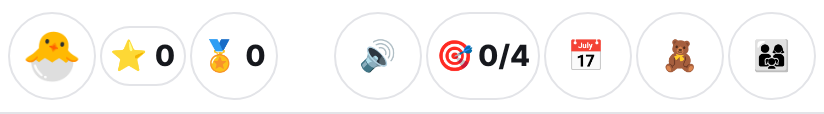
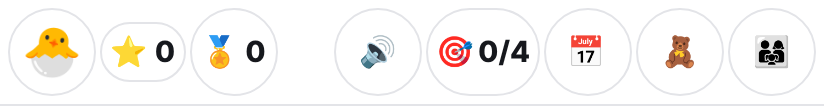
웹(주소창 보이는 크롬)에서 아래 작업줄이 안 보이던 진짜 원인 수정
app.css 의 body { min-height: 100vh } 가 바탕화면에도 걸려 있었다. 안드로이드 크롬의 100vh 는 주소창이 숨었을 때의
큰 높이라, 주소창이 보이면 몸통이 길어져 작업줄이 화면 밖으로 밀렸다(설치 앱은 주소창이 없어 멀쩡). v30 의 높이 맞춤이
이 최소 높이에 막혀 듣지 않았다.
- 바탕화면 body min-height: 0
- 높이는 innerHeight 와 보이는 영역(visualViewport) 중 작은 쪽, 앱 창은 위 막대·작업줄의 실제 자리를 재서 맞춤
- viewport-fit=cover + 안전 영역 여백(아래 시스템 단추·노치 뒤로 그리는 기기 대비)
- 보호자 설정에 '화면 정보'(창·보이는 높이·dvh/svh/lvh·안전 영역·작업줄 위치) — 기기별 문제 확인용
- 캐시 v33

Claude-Session: https://claude.ai/code/session_01FiWqr26jd92tA4vQktpHxz

diff --git a/index.html b/index.html
@@ -2,7 +2,7 @@
 <html lang="ko" data-db-app="kids-lab" data-db-theme="light">
 <head>
 <meta charset="utf-8">
-<meta name="viewport" content="width=device-width, initial-scale=1">
+<meta name="viewport" content="width=device-width, initial-scale=1, viewport-fit=cover">
 <title>키즈랩 — 우리 아이 학습 놀이터</title>
 <meta name="description" content="다섯 살부터 혼자 켜서 쓰는 한글·영어·수학·과학·생활 학습 놀이터">
 <link rel="canonical" href="https://dibrain.dev/kids-lab/">
@@ -29,7 +29,9 @@
   /* 높이는 100dvh가 아니라 실제 보이는 높이(innerHeight)로 맞춘다.
      일부 안드로이드 태블릿(아래 시스템 작업 표시줄)에서 100dvh가 보이는 높이보다 커서 작업줄이 화면 밖으로 밀리고,
      화면 기준으로 자리 잡는 앱 창과 어긋나 아래로 바탕화면이 비쳤다. */
-  body { height: 100%; height: var(--app-h, 100%); overflow: hidden; display: flex; flex-direction: column; background: var(--db-bg); color: var(--db-text); font-size: 20px; }
+  /* app.css 의 body { min-height: 100vh } 를 끈다. 안드로이드 크롬에서 100vh 는 주소창이 숨었을 때의 큰 높이라,
+     주소창이 보이는 웹에서는 몸통이 길어져 작업줄이 화면 밖으로 밀렸다(설치 앱은 주소창이 없어 멀쩡했다) */
+  body { min-height: 0; height: 100%; height: var(--app-h, 100%); overflow: hidden; display: flex; flex-direction: column; background: var(--db-bg); color: var(--db-text); font-size: 20px; }
   #topbar { flex: none; background: var(--db-card); border-bottom: 1px solid var(--db-line); display: flex; align-items: center; justify-content: space-between; gap: 8px; padding: 5px 14px; position: relative; z-index: 50; }
   #topbar .left, #topbar .right { display: flex; align-items: center; gap: 8px; min-width: 0; }
   #topbar .fit-hide { display: none !important; }
@@ -96,7 +98,7 @@
   @media (hover: hover) { .win .bar button.close:hover { background: #e03e44; } }
   .win iframe { flex: 1; border: none; width: 100%; background: var(--db-bg); }
   /* 손가락으로 쓰는 기기(iPad 등): 창은 늘 화면 가득, 끌기·크기 단추 없음, 닫기 단추는 크게 */
-  html.touch .win, html.touch .win.max { left: 0 !important; right: 0 !important; top: var(--topbar-h, 64px) !important; width: 100% !important; height: calc(100% - var(--topbar-h, 64px) - var(--taskbar-h, 70px)) !important; min-width: 0; min-height: 0; border-radius: 0; border-width: 0; }
+  html.touch .win, html.touch .win.max { left: 0 !important; right: 0 !important; top: var(--win-top, var(--topbar-h, 64px)) !important; width: 100% !important; height: var(--win-h, calc(100% - var(--topbar-h, 64px) - var(--taskbar-h, 70px))) !important; min-width: 0; min-height: 0; border-radius: 0; border-width: 0; }
   html.touch .win .bar { cursor: default; }
   html.touch .win .bar .maxbtn { display: none; }
   html.touch .win .bar button { height: 40px; }
@@ -173,7 +175,7 @@
     #taskbar { min-height: 48px; padding-top: 3px; padding-bottom: calc(3px + env(safe-area-inset-bottom, 0px)); }
     #homeBtn { width: 44px; height: 40px; font-size: 22px; border-radius: 12px; box-shadow: 0 3px 0 rgba(0,0,0,.12); }
     .task { padding: 6px 10px; font-size: 15px; border-radius: 12px; }
-    .win, .win.max { left: 0 !important; right: 0 !important; top: var(--topbar-h, 56px) !important; width: 100% !important; height: calc(100% - var(--topbar-h, 56px) - var(--taskbar-h, 58px)) !important; min-width: 0; min-height: 0; border-radius: 0; border-width: 0; }
+    .win, .win.max { left: 0 !important; right: 0 !important; top: var(--win-top, var(--topbar-h, 56px)) !important; width: 100% !important; height: var(--win-h, calc(100% - var(--topbar-h, 56px) - var(--taskbar-h, 58px))) !important; min-width: 0; min-height: 0; border-radius: 0; border-width: 0; }
     .win .bar { height: 42px; font-size: 17px; padding: 0 6px 0 12px; cursor: default; }
     .win .bar button { width: 40px; height: 36px; font-size: 18px; }
     .win .bar button.close { width: 52px; font-size: 22px; }
@@ -235,6 +237,10 @@
   @media (min-width: 761px) and (max-width: 900px) { .pill { padding-left: 9px; padding-right: 9px; } }
   /* 아주 좁은 폰(340px 이하)은 단추 폭을 조금 줄여야 한 줄에 들어간다. 높이 44px은 그대로 */
   @media (max-width: 340px) { .pill.btn, #profileBtn { min-width: 38px; } #topbar .left, #topbar .right { gap: 1px; } }
+  /* viewport-fit=cover: 노치·시스템 단추 자리를 피한다 (없는 기기에서는 원래 여백 그대로).
+     맨 끝에 두어 폭별 규칙의 padding 에 덮이지 않게 한다 */
+  #topbar { padding-top: max(4px, env(safe-area-inset-top, 0px)); padding-left: max(4px, env(safe-area-inset-left, 0px)); padding-right: max(4px, env(safe-area-inset-right, 0px)); }
+  #taskbar { padding-left: max(10px, env(safe-area-inset-left, 0px)); padding-right: max(10px, env(safe-area-inset-right, 0px)); padding-bottom: calc(3px + env(safe-area-inset-bottom, 0px)); }
 </style>
 </head>
 <body>
@@ -299,9 +305,16 @@
   function syncBars() {
     fitTopbar();
     var tb = document.getElementById('topbar'), bb = document.getElementById('taskbar');
-    document.documentElement.style.setProperty('--app-h', window.innerHeight + 'px');
+    /* 실제로 보이는 높이: innerHeight와 보이는 영역(visualViewport) 중 작은 쪽.
+       어떤 안드로이드 크롬은 주소창·아래 시스템 단추 뒤까지 높이에 넣어 작업줄이 가려졌다 */
+    var vh = window.innerHeight;
+    if (window.visualViewport && window.visualViewport.scale <= 1.01) vh = Math.min(vh, Math.round(window.visualViewport.height + window.visualViewport.offsetTop));
+    document.documentElement.style.setProperty('--app-h', vh + 'px');
     document.documentElement.style.setProperty('--topbar-h', tb.offsetHeight + 'px');
     document.documentElement.style.setProperty('--taskbar-h', bb.offsetHeight + 'px');
+    /* 앱 창은 위 막대 아래부터 작업줄 위까지, 실제 자리를 재서 맞춘다 */
+    var top = tb.getBoundingClientRect().bottom, bot = bb.getBoundingClientRect().top;
+    if (bot > top) { document.documentElement.style.setProperty('--win-top', Math.round(top) + 'px'); document.documentElement.style.setProperty('--win-h', Math.round(bot - top) + 'px'); }
   }
   syncBars();
   window.addEventListener('resize', syncBars);
@@ -870,6 +883,16 @@
     panel.appendChild(el('div', { class: 'toggle' }, [el('span', { text: '🗑 기록 전체 삭제 (모든 친구)' }), el('button', { text: '모두 지우기', style: 'background:#ff595e;color:#fff', onclick: function () { if (!confirm('키즈랩에 저장된 모든 친구의 기록과 설정을 지웁니다. 되돌릴 수 없어요. 계속할까요?')) return; try { var ks = []; for (var i = 0; i < localStorage.length; i++) { var k = localStorage.key(i); if (k && k.indexOf('kidlab.') === 0) ks.push(k); } ks.forEach(function (k) { localStorage.removeItem(k); }); } catch (e) {} location.reload(); } })]));
     panel.appendChild(el('p', { style: 'color:#5e5e5e;font-size:16px;margin-top:16px', html: '💡 모든 기록은 이 컴퓨터의 브라우저(localStorage)에만 저장돼요. 서버로 보내지 않아요.<br>키보드: <b>Esc</b> = 앱 닫기, 미로/코딩은 <b>방향키</b> 사용 가능.' }));
     /* 운영자 사이트 첫 화면 링크는 보호자만 보는 이 화면에만 둔다 (첫 화면에는 광고·어른용 도구가 있다) */
+    /* 화면 정보: 기기마다 다른 화면 높이 문제를 원격으로 확인하려고 둔다 */
+    (function () {
+      var probe = function (u) { var d = document.createElement('div'); d.style.cssText = 'position:fixed;top:0;left:-9px;width:1px;height:' + u; document.body.appendChild(d); var h = Math.round(d.getBoundingClientRect().height); d.remove(); return h; };
+      var sa = document.createElement('div'); sa.style.cssText = 'position:fixed;left:-9px;top:0;padding-bottom:env(safe-area-inset-bottom,0px);padding-top:env(safe-area-inset-top,0px)'; document.body.appendChild(sa); var cs = getComputedStyle(sa); var safe = parseInt(cs.paddingTop) + '/' + parseInt(cs.paddingBottom); sa.remove();
+      var vv = window.visualViewport, tbr = document.getElementById('taskbar').getBoundingClientRect();
+      var info = '창 ' + innerWidth + '×' + innerHeight + ' · 보이는 ' + (vv ? Math.round(vv.width) + '×' + Math.round(vv.height) + '+' + Math.round(vv.offsetTop) : '-') +
+        ' · dvh ' + probe('100dvh') + ' svh ' + probe('100svh') + ' lvh ' + probe('100lvh') + ' · 화면 ' + screen.width + '×' + screen.height + ' ×' + (window.devicePixelRatio || 1) +
+        ' · 안전영역 ' + safe + ' · 작업줄 ' + Math.round(tbr.top) + '~' + Math.round(tbr.bottom) + ' · ' + (matchMedia('(display-mode: standalone)').matches ? '설치 앱' : '브라우저') + ' · ' + (navigator.userAgent.match(/(Chrome|Version|Firefox|SamsungBrowser)\/[\d.]+/) || [''])[0];
+      panel.appendChild(el('details', { style: 'margin-top:10px;font-size:14px;color:var(--db-sub)' }, [el('summary', { text: '📐 화면 정보 (문제 알릴 때 캡처해 주세요)' }), el('div', { text: info, style: 'padding:8px 4px;word-break:break-all' })]));
+    })();
     panel.appendChild(el('p', { style: 'font-size:16px;margin:8px 0 0;color:var(--db-sub)', html: '<a href="https://dibrain.dev/" rel="noopener" style="display:inline-block;padding:10px 0;font-weight:800;color:var(--db-text)">DigitalBrain 첫 화면</a> · 키즈랩 밖으로 나가요' }));
     wrap.appendChild(panel); document.getElementById('panels').appendChild(wrap);
   }

diff --git a/shared/kid.js b/shared/kid.js
@@ -315,15 +315,15 @@
     if (window.top !== window) return;                       /* 앱 창(iframe)은 바깥 화면을 따른다 */
     var mv = document.querySelector('meta[name="viewport"]'); if (!mv) return;
     var sc = TOUCH_DEV ? uiScale() : 1, c;
-    if (sc === 1) c = 'width=device-width, initial-scale=1, minimum-scale=1, maximum-scale=1, user-scalable=no';
+    if (sc === 1) c = 'width=device-width, initial-scale=1, minimum-scale=1, maximum-scale=1, user-scalable=no, viewport-fit=cover';
     else {
       var land = window.matchMedia && matchMedia('(orientation: landscape)').matches;
       var dev = land ? Math.max(screen.width, screen.height) : Math.min(screen.width, screen.height);
       /* 앱들은 폭 320까지 맞춰 두었다. 작은 폰에서 크게 하면 그보다 좁아지지 않게 배율을 줄인다 */
       if (sc > 1 && dev / sc < 320) sc = Math.max(1, dev / 320);
       sc = Math.round(sc * 1000) / 1000;
-      c = sc === 1 ? 'width=device-width, initial-scale=1, minimum-scale=1, maximum-scale=1, user-scalable=no'
-        : 'width=' + Math.round(dev / sc) + ', initial-scale=' + sc + ', minimum-scale=' + sc + ', maximum-scale=' + sc + ', user-scalable=no';
+      c = sc === 1 ? 'width=device-width, initial-scale=1, minimum-scale=1, maximum-scale=1, user-scalable=no, viewport-fit=cover'
+        : 'width=' + Math.round(dev / sc) + ', initial-scale=' + sc + ', minimum-scale=' + sc + ', maximum-scale=' + sc + ', user-scalable=no, viewport-fit=cover';
     }
     if (mv.getAttribute('content') !== c) mv.setAttribute('content', c);
   }

diff --git a/sw.js b/sw.js
@@ -2,7 +2,7 @@
    파일을 고치면 CACHE 값을 올린다.
    글꼴(Pretendard) 조각 파일 92개는 미리 받지 않는다. 화면에 필요한 조각만 처음 쓸 때 받아
    FONT_CACHE에 두고, 다음부터는 저장해 둔 것을 쓴다. 글꼴은 바뀌지 않으므로 CACHE를 올려도 지우지 않는다. */
-var CACHE = 'kidlab-v32';
+var CACHE = 'kidlab-v33';
 var FONT_CACHE = 'kidlab-fonts-v1';
 var SHELL = [
   "./",
